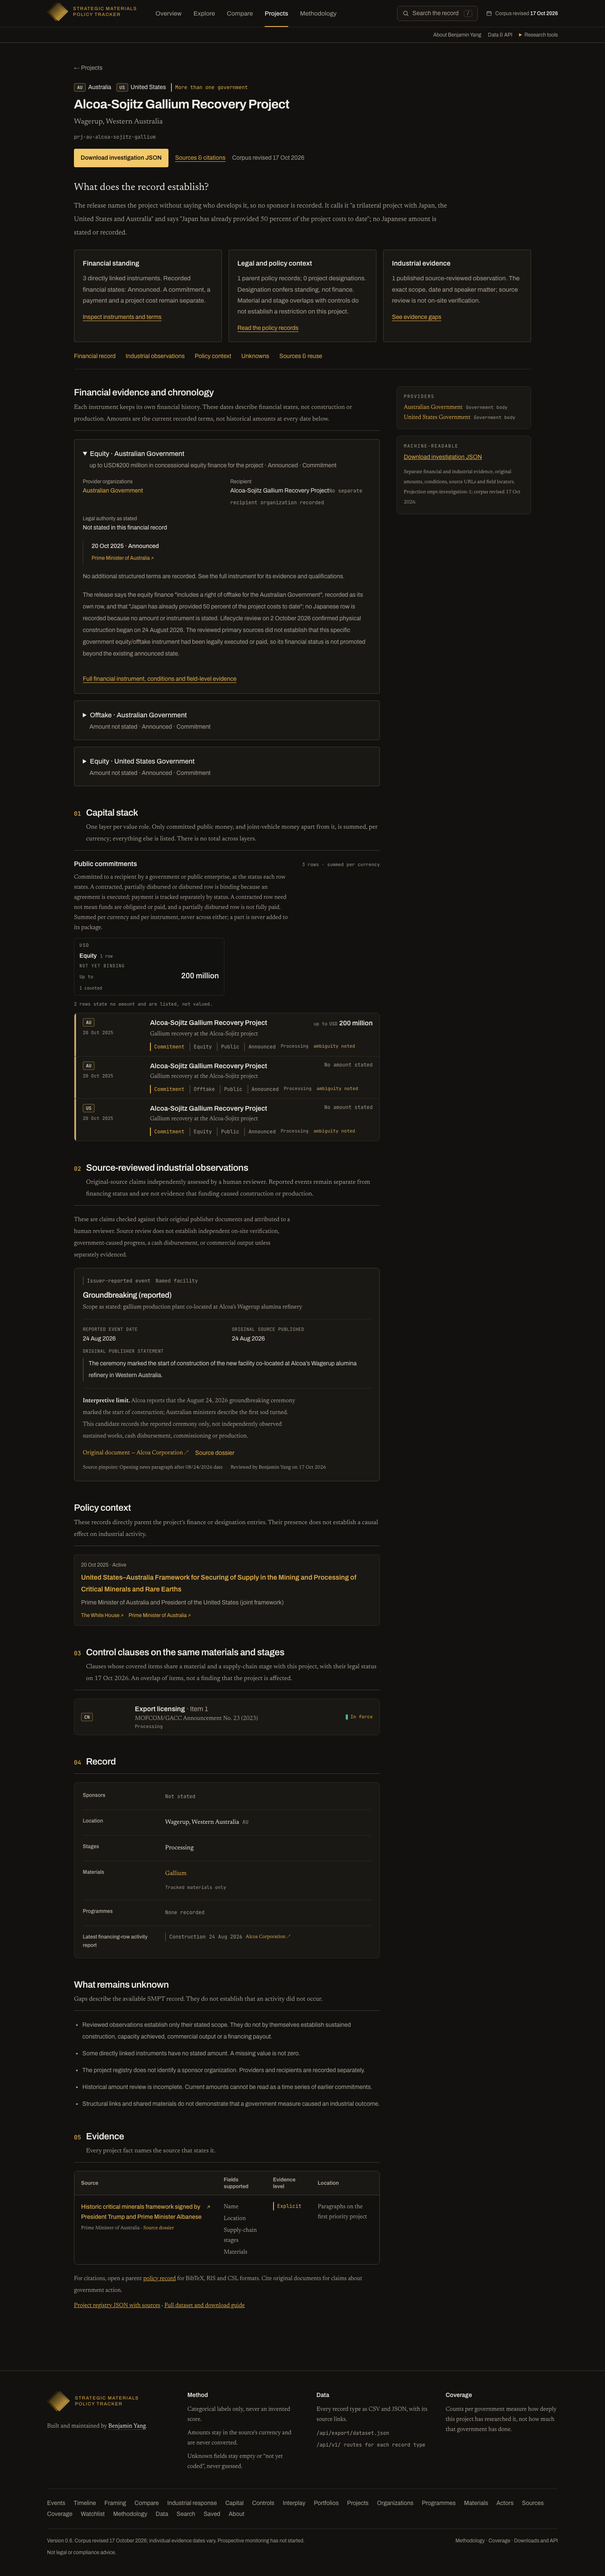
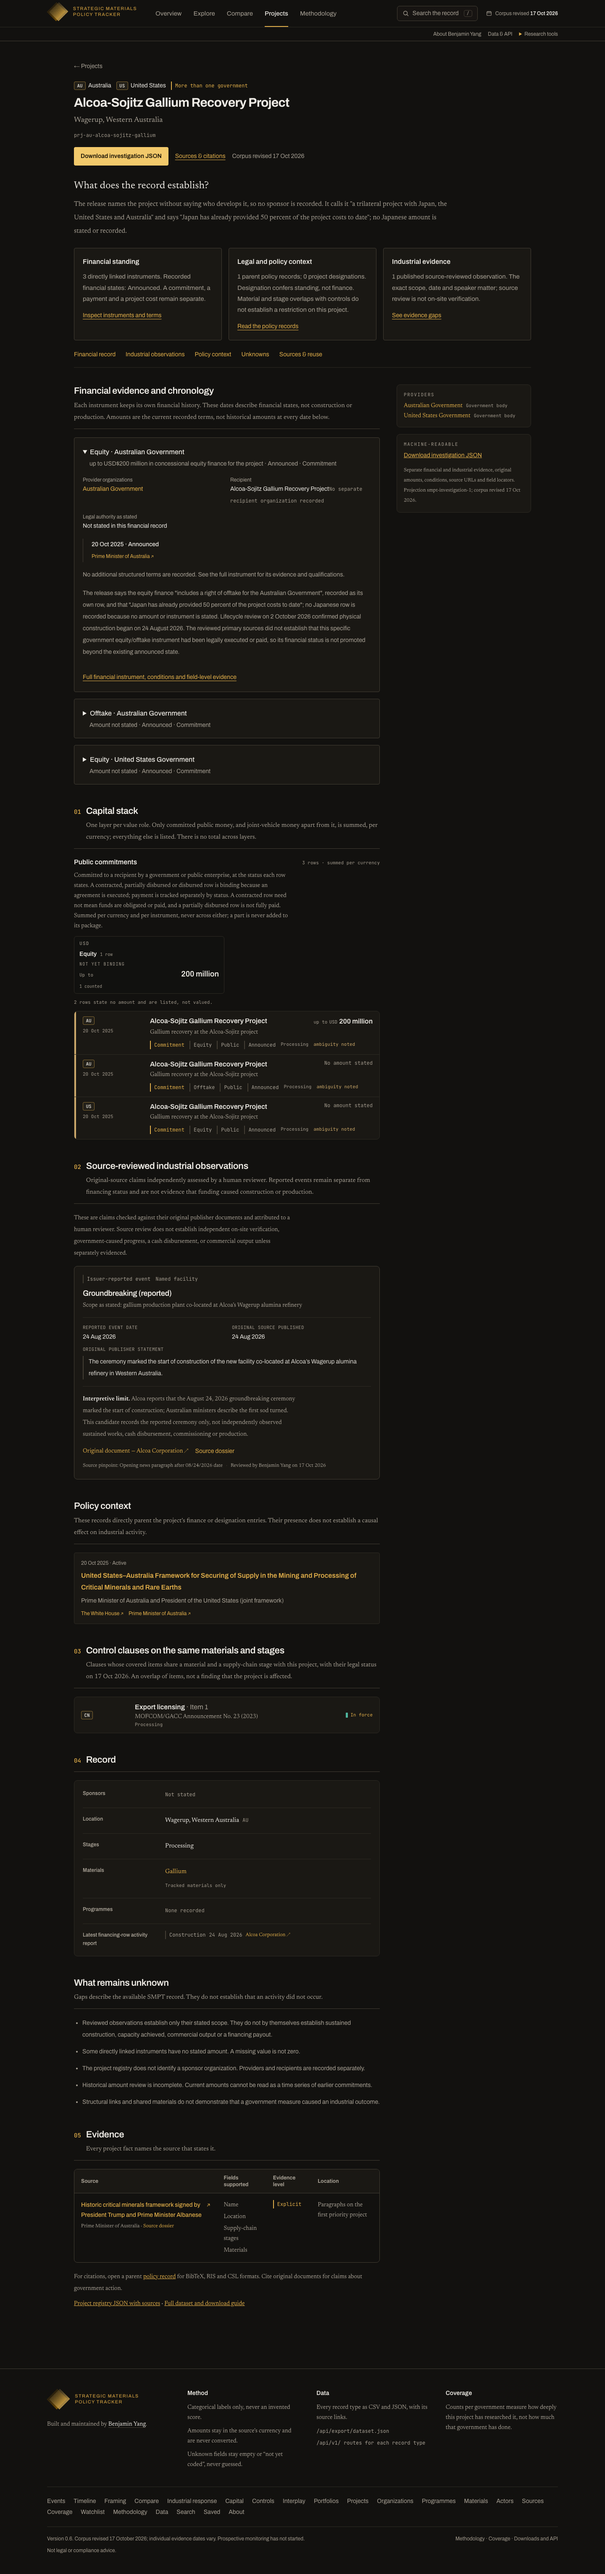
refine: clarify research opening and retain counting detail in disclosure

diff --git a/components/lattice/lattice.tsx b/components/lattice/lattice.tsx
@@ -269,7 +269,7 @@ function SelectionPreview({ model, query }: { model: LatticeModel; query: Resear
   if (!query.selection || !material) return null;
   const first = view?.commitments[0] ?? view?.controls[0] ?? view?.designations[0];
   const project = first?.projects?.[0];
-  return <div aria-live="polite" className="mt-5 border-l-2 border-accent pl-4 font-display text-sm leading-6">
+  return <div aria-live="polite" className="mt-5 border-t border-border-strong pt-4 font-display text-sm leading-6">
     <h3 className="font-semibold">{material.nameEn} × {stageLabel(model, query.selection.stage)}</h3>
     <p className="mt-1 text-muted">{view ? cellSummary(view.counts) || "No counted records" : "No record at this cell under these filters"}.</p>
     {first ? <Link href={first.href} className="mt-2 block text-accent underline underline-offset-4">Read a {first.kind === "control" ? "control clause" : first.kind === "designation" ? "designation" : "financial instrument"}</Link> : null}
@@ -282,7 +282,7 @@ export function LatticeOverview({ model, preferred, intro }: { model: LatticeMod
   const { query, update, select } = useResearchQuery(model, preferred);
   return <>
     <div className="grid gap-7 lg:grid-cols-[18rem_1fr] lg:gap-10">
-      <div>{intro}<div className="hidden lg:block"><SelectionPreview model={model} query={query} /></div><LatticeLegend model={model} className="mt-6 hidden lg:block" />
+      <div>{intro}<div className="hidden lg:block"><SelectionPreview model={model} query={query} /><LatticeKey model={model} /></div>
       </div>
       <section className="min-w-0" aria-label="Materials by supply-chain stage">
         <div className="mb-4 flex flex-wrap items-baseline justify-between gap-2">
@@ -292,7 +292,7 @@ export function LatticeOverview({ model, preferred, intro }: { model: LatticeMod
         <QueryControls model={model} query={query} update={update} />
         <QueryIssues query={query} />
         <div className="mt-5"><LatticeTable model={model} filter={query.filter} selection={query.selection} onSelect={select} showCounts={false} /><MobileLattice model={model} filter={query.filter} selection={query.selection} onSelect={select} /></div>
-        <div className="mt-4 lg:hidden"><LatticeLegendCompact /></div>
+        <div className="lg:hidden"><LatticeKey model={model} /></div>
       </section>
     </div>
     <p className="mt-5 max-w-4xl font-display text-xs leading-5 text-muted">A record can occupy several stages; rows and columns are never totalled. Empty cells describe the coded corpus, not an absence of government activity. <NotPlacedSentence gaps={model.gaps} /></p>
@@ -300,7 +300,18 @@ export function LatticeOverview({ model, preferred, intro }: { model: LatticeMod
   </>;
 }
 
-/** The four mark meanings in two short lines, for the phone lattice. */
+/** Keep the symbol key visible; full counting qualifications remain one disclosure away. */
+function LatticeKey({ model }: { model: LatticeModel }) {
+  return <div className="mt-5">
+    <LatticeLegendCompact />
+    <details className="mt-3 font-display text-xs text-muted">
+      <summary className="cursor-pointer py-2 text-foreground">Counting rules and qualifications</summary>
+      <LatticeLegend model={model} className="mt-2" />
+    </details>
+  </div>;
+}
+
+/** Compact mark meanings shared by the desktop rail and mobile lattice. */
 function LatticeLegendCompact() {
   return (
     <ul className="grid grid-cols-2 gap-x-4 gap-y-2 font-display text-xs leading-5 text-muted">

diff --git a/app/page.tsx b/app/page.tsx
@@ -13,7 +13,7 @@ import { site } from "@/lib/site";
 import { datasetJsonLd, jsonLdScript } from "@/lib/structured-data";
 
 export const metadata: Metadata = {
-  title: "From government policy to industrial reality",
+  title: "How governments reshape strategic-material supply chains",
   description:
     "Investigate how governments use legal controls, public finance and industrial intervention to reshape strategic-material supply chains, and what the evidence establishes.",
   openGraph: {
@@ -39,7 +39,7 @@ export default function Home() {
       <Container width="wide" className="py-7 sm:py-9">
         <LatticeOverview model={model} preferred={{ slug: "gallium", stage: "processing" }} intro={<>
           <p className="font-display text-sm text-muted">Strategic materials, government action</p>
-          <h1 className="mt-3 font-serif text-[2rem] font-semibold sm:text-[2.5rem] leading-[1.1] tracking-tight">From policy to industrial evidence.</h1>
+          <h1 className="mt-3 font-serif text-[2rem] font-semibold sm:text-[2.5rem] lg:text-[2rem] leading-[1.1] tracking-tight">How governments reshape strategic-material supply chains.</h1>
           <p className="mt-4 font-serif text-base leading-7 text-muted">Trace legal controls, public finance and reported project activity to the evidence behind each claim.</p>
           <p className="mt-4 font-display text-xs text-muted">Research by <Link href="/about" className="underline underline-offset-4">Benjamin Yang</Link>.</p>
         </>} />

diff --git a/components/site-header.tsx b/components/site-header.tsx
@@ -181,7 +181,7 @@ export function SiteHeader() {
         </Container>
 
         <div className="border-t border-border">
-          <Container width="wide" className="flex min-h-9 items-center justify-between gap-3 py-1.5 font-display text-xs">
+          <Container width="wide" className="flex min-h-9 items-center justify-between gap-3 py-1.5 font-display text-xs lg:min-h-8 lg:py-0">
             <RecordAsOf className="xl:invisible" />
             <nav aria-label="Research resources" className="flex items-center gap-4">
               <Link href="/about" className="hidden text-muted hover:text-foreground sm:inline">About Benjamin Yang</Link>

diff --git a/docs/analysis/product-experience-reinvention-2026-10-22.md b/docs/analysis/product-experience-reinvention-2026-10-22.md
@@ -12,7 +12,7 @@ navy body override. Raise faint text slightly to `#a39b8e` for AA contrast acros
 actual dark surfaces; cream-panel swatches gain an outline. Preserve the supplied
 logo and the existing Newsreader, Archivo and JetBrains Mono families.
 
-The opening pairs a compact 40px desktop Newsreader introduction with the existing
+The opening pairs a compact 32px desktop Newsreader introduction with the existing
 React/SVG/HTML-table lattice. A selected-cell summary and real evidence/project
 links sit beside it. The complete selected-record panel follows, retaining
 separate counts, funding options, ended rows and off-lattice explanations. Mobile
@@ -43,6 +43,44 @@ empty cells stay empty. Unknown, empty, conflicting, incomplete or repeated
 analytical parameters produce visible errors and no selected records. Unrelated
 query parameters survive interaction; standard focus/section anchors are exempt.
 Browser Back, sharing and reload retain the analytical state.
+
+## Release-readiness correction (2026-10-23)
+
+Dependency commit `949305e` updates exact pins for `next` and
+`eslint-config-next` from **16.4.0 to 16.4.1**. The regenerated npm lockfile
+changes only Next.js, its environment/ESLint packages and eight SWC variants;
+Linux SWC metadata gains upstream libc selectors. React/DOM remain 19.2.4,
+and sharp remains 0.35.5, now also the framework's minimum. Node >=20.9.0,
+React 19 and ESLint 9 remain supported; no compatibility code was needed.
+
+The demonstrated CI failure was the direct path `root → next@16.4.0`:
+
+| Advisory | Affected 16.x range | First patched 16.x |
+| --- | --- | --- |
+| [GHSA-2464-fhr4-w9xw: image optimization RCE](https://github.com/advisories/GHSA-2464-fhr4-w9xw) | >=16.0.0 <=16.4.0 | 16.4.1 |
+| [GHSA-p3m5-59mp-jv5r: Server Actions denial of service](https://github.com/advisories/GHSA-p3m5-59mp-jv5r) | >=16.0.0 <=16.4.0 | 16.4.1 |
+| [GHSA-673q-mjm6-r5xr: cached typed-array RCE](https://github.com/advisories/GHSA-673q-mjm6-r5xr) | >=16.0.0 <=16.4.0 | 16.4.1 |
+
+The [official 16.4.1 release](https://github.com/vercel/next.js/releases/tag/v16.4.1)
+fixes all three. npm's suggested 16.4.3 is not the minimum required by these
+ranges. Fixed local PNG optimization remains in use; targeted source inspection
+found no Server Actions or Cache Components/use-cache functions. This is a
+dependency remediation, not an assertion that an exploit was reproduced.
+
+`npm ci` passed, `npm ls` found consistent framework/peer versions, and the exact
+CI command `npm audit --omit=dev --audit-level=moderate` returned **zero
+vulnerabilities**, without overrides, exclusions, threshold changes or bypasses.
+The all-dependency audit still reports five high dev-only entries along
+`eslint-config-next → @next/eslint-plugin-next → fast-glob → micromatch → braces`
+([braces advisory](https://github.com/advisories/GHSA-vfj7-8cjw-p6xm)); this is
+outside the production gate and was not suppressed or changed.
+
+The bounded presentation pass clarifies the headline to “How governments reshape
+strategic-material supply chains.” at 32px on mobile/desktop (40px tablet), reduces desktop
+secondary navigation from 36px to 32px, and keeps a compact symbol key beside the
+selection actions. Full original counting qualifications remain in the native
+“Counting rules and qualifications” disclosure at every viewport. The record
+panel still serves the distinct purpose of listing individual canonical records.
 
 Government means provider for commitments, issuer for clauses, designating
 government for designations, never project geography. Counted IDs, options and
@@ -119,16 +157,18 @@ additional cache, backend service or dependency was needed.
   nonallocative treatment, unknown IDs, nested private-field sentinels, exact
   search discovery and a browser-safe import boundary. Updated an obsolete
   page-source regex to exercise actual public milestone rendering.
-- `npm run build`: passed. The existing vulnerable-version reminder initially
-  returned `SecurityFatalError`; the same ordinary command succeeded on retry.
-  No bypass flags, dependency, CI or deployment configuration changes.
+- `npm run build`: passed on patched Next.js 16.4.1 on its first run, including
+  static investigation routes. No security-blocked build retry or bypass.
 - Production-build Playwright: passed at **1440×900, 768×900, 390×900**, with
   reduced motion. Exercised material/stage keyboard and mobile selection,
   separate counts, government filtering, context transfer to Compare, Back,
   reload, invalid and empty cells, project links, financial/industrial evidence,
   actual JSON download bytes and filename, sources/citations, exact milestone
   search to its real investigation, skip-link focus/URL preservation, menus and
-  Escape/focus return, plus 11 legacy routes. Captured and checked Overview,
+  Escape/focus return, plus 11 legacy routes. Release QA also exercises the
+  counting disclosure by keyboard, exact document-number and original-language
+  browser queries, JSON response headers/bytes and unknown/unpublished-ID 404s.
+  Captured and checked Overview,
   Explore, Compare, Wagerup/Stibnite, About, Methodology and Data/API for page
   overflow. Browser page-error collection was empty.
 - Fonts awaited before screenshots. Chromium platform-font inspection confirmed
@@ -144,6 +184,7 @@ Mobile presents usable analytical controls instead of miniaturized columns.
 
 [Original production reference, 1440×900](product-experience/production-before.png) ·
 [Revised overview, 1440×900](product-experience/overview-desktop.png) ·
+[Revised tablet overview, 768×900](product-experience/overview-tablet.png) ·
 [Revised mobile overview](product-experience/overview-mobile.png) ·
 [Wagerup investigation](product-experience/wagerup-desktop.png).
 
@@ -155,14 +196,22 @@ the checkout.
 
 ## Delivery limits
 
-`npm audit --omit=dev --audit-level=moderate` still fails on unchanged Next.js
-16.4.0 (critical/high advisories; npm suggests 16.4.2). Security remediation remains
-a separate merge prerequisite. Exact final-head remote CI is reported in PR #181;
-local success is not claimed as remote success or preview verification.
+Local release checks use Node 24.15.0/npm 11.12.1 on macOS; CI uses Node 20 on
+Linux, while the existing Vercel project uses Node 24. No runtime/workflow setting
+changed. Independent dependency investigation and patch review found no concrete
+surviving advisory or regression; other OS execution was not tested locally.
+Exact final-head CI and preview verification are reported in PR #181 after this
+document's commit; pre-commit local results do not establish later-commit CI.
+The Vercel connector lacks team authorization; the existing CLI can inspect the
+correct project and is used for read-only preview discovery instead. CLI 62.1.0
+misparsed the documented `env run` authentication probe, attempted an upload and
+failed with an invalid environment-key error before a successful deployment.
+That command was not retried; its newly created local project link was removed.
 
 No changes to seed/research stores, eligibility, validators, source quotations,
 financial calculations, legal standing, corpus dates, private evidence or existing
 API/export schemas. The two stale unrouted-library comments were corrected;
 comments grant no publication authority. Narva release #180, arbitrary project
 comparison #166, finance guidance #162 and CSV security #167 remain separate.
-No merge, production deployment, global CLI upgrade or monitoring activation.
+No merge, successful manual deployment, production promotion, global CLI upgrade
+or monitoring activation. Ordinary Git preview automation remains enabled.

diff --git a/PROJECT_STATE.md b/PROJECT_STATE.md
@@ -3,8 +3,9 @@
 - Continues `codex/smpt-product-experience-reinvention` from `a2492e8` over original reference `084078f`; no research or publication changes.
 - Restores warm Lattice Register identity and an interactive opening. Home/Compare share a deterministic URL query and explicit evidence/project links; mobile uses readable material/stage controls.
 - Adds an allowlisted public investigation projection shared by project evidence sections and static `/api/v1/projects/[id]/investigation` JSON downloads. Exact milestone search now reaches real project investigations.
-- Local validate/typecheck/lint/build and 1,029 tests pass; responsive/font/download/keyboard browser QA passes. Unchanged Next.js audit remains a separate blocker. Exact final-head CI is reported in PR #181.
-- Full decisions, output contract, review images and limitations: [research product experience](docs/analysis/product-experience-reinvention-2026-10-22.md). No merge, production deployment, dependency repair or pending research-PR absorption.
+- Release-readiness continuation: dependency-only commit `949305e` pins Next.js and matching ESLint config to 16.4.1, the first patched release for the three demonstrated advisories. Clean `npm ci`, consistent peers and the exact production audit pass with zero production vulnerabilities. Five dev-only audit entries remain outside that gate.
+- The bounded polish clarifies the headline, trims desktop secondary navigation and puts full counting explanations in a keyboard-accessible disclosure with a visible compact key. Local validate/typecheck/lint/build and 1,029 tests pass; nine existing lint warnings remain. Responsive/font/download/keyboard QA covers 390/768/1440px. Exact final-head repeat, CI and preview receipts are reported in PR #181 after this document's commit.
+- Full decisions, advisory links, output contract, review images and limitations: [research product experience](docs/analysis/product-experience-reinvention-2026-10-22.md). No merge, production deployment, research/publication/calculation change or pending research-PR absorption.
 
 ## 2026-10-09: F5-1c Stibnite source registration + project-native reviewer path (pending merge)
 
